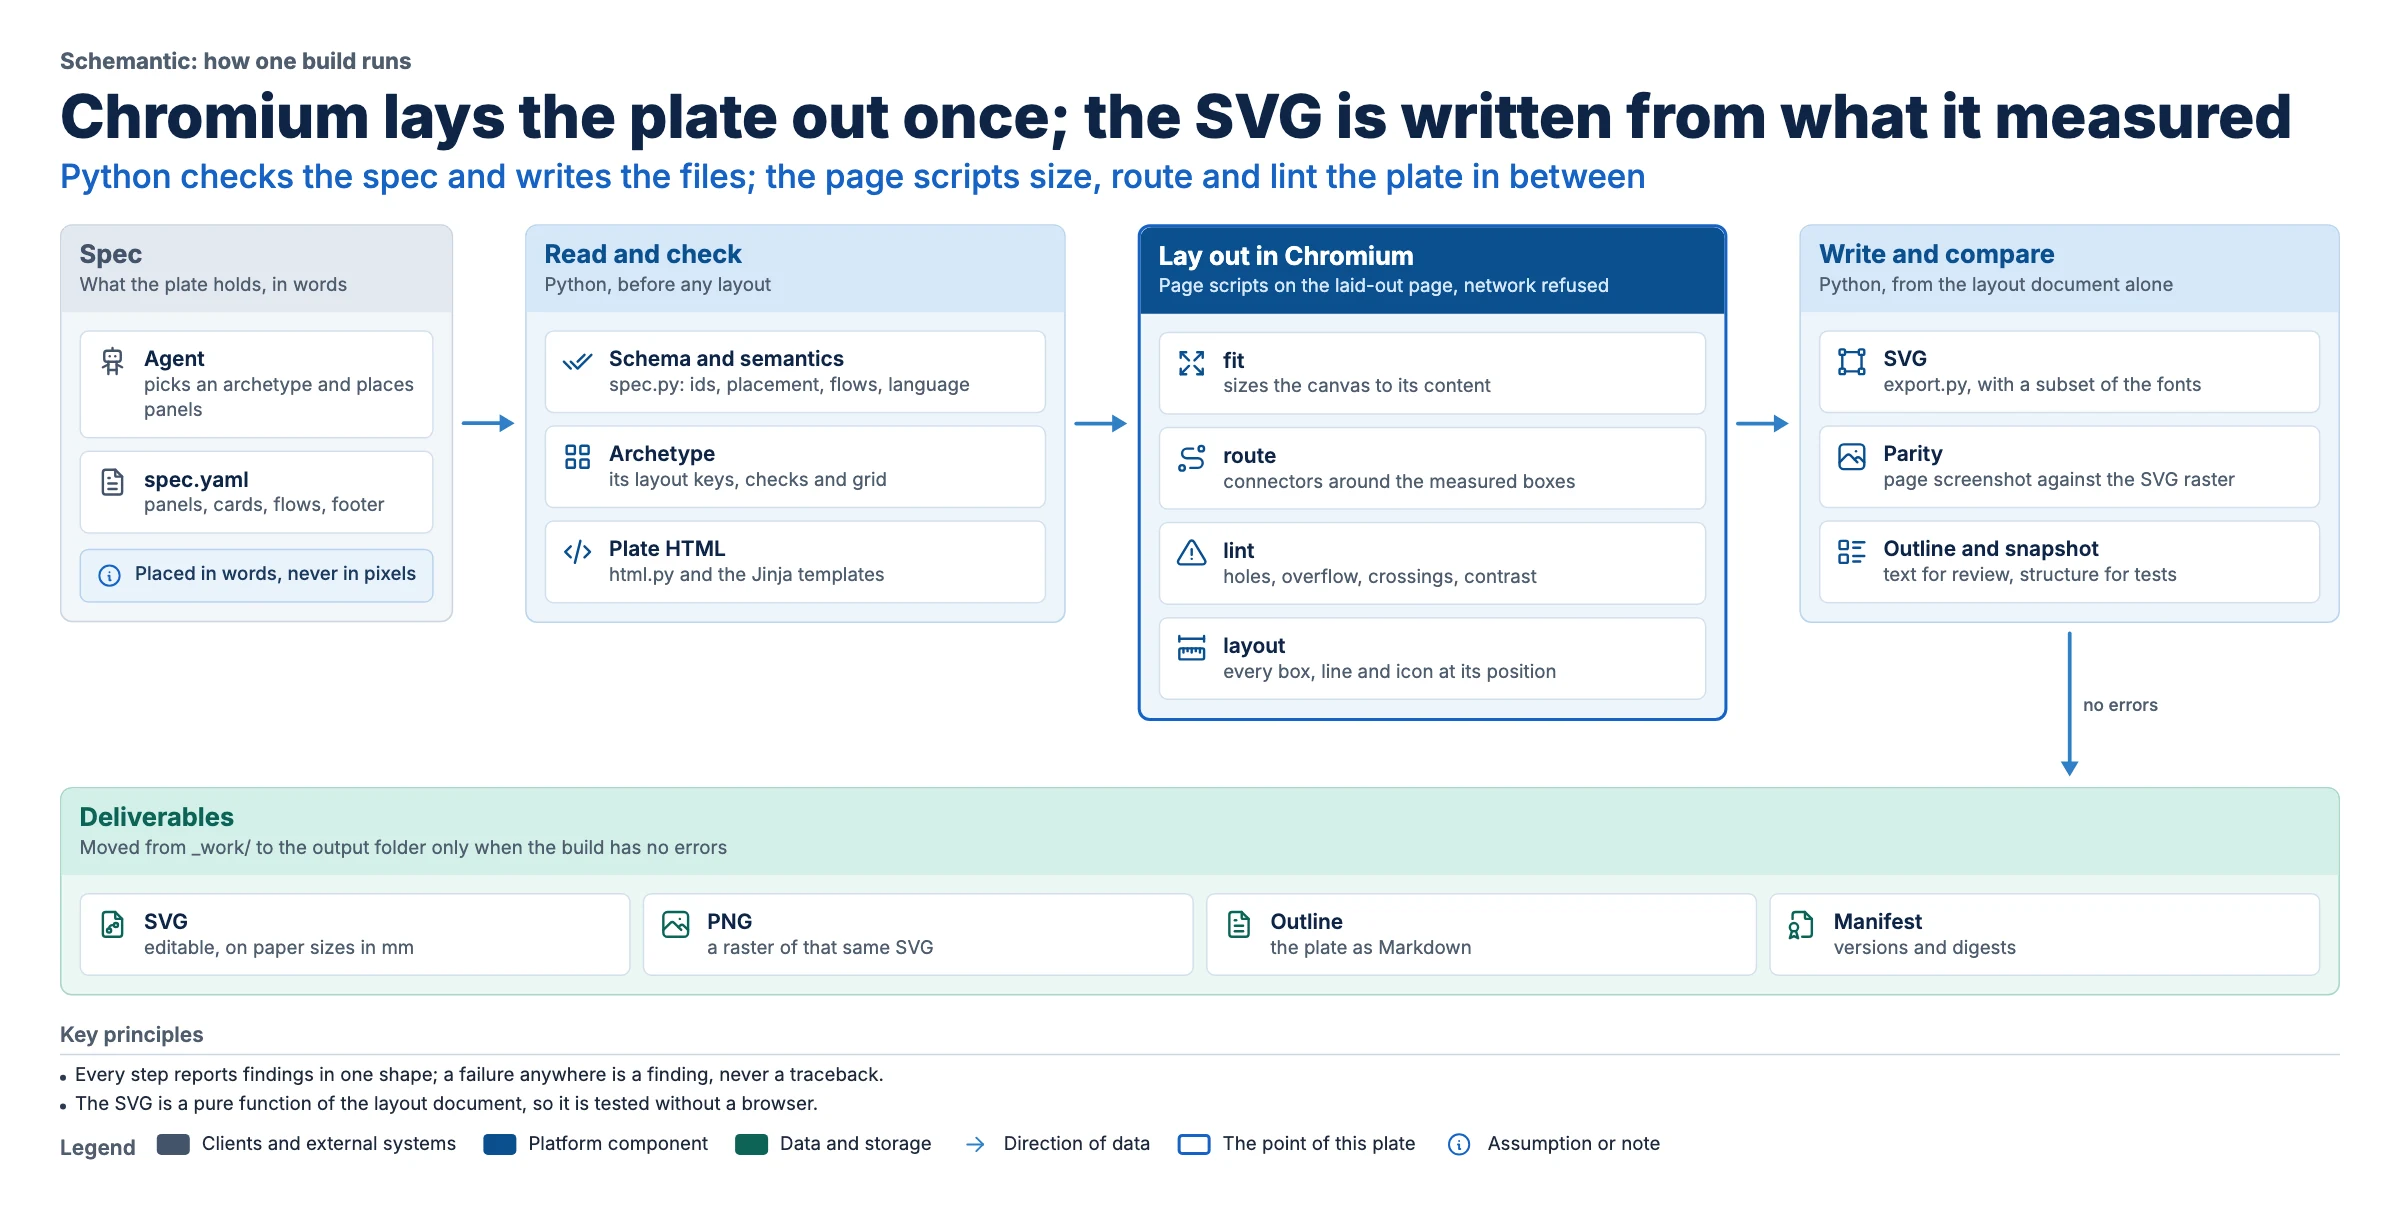
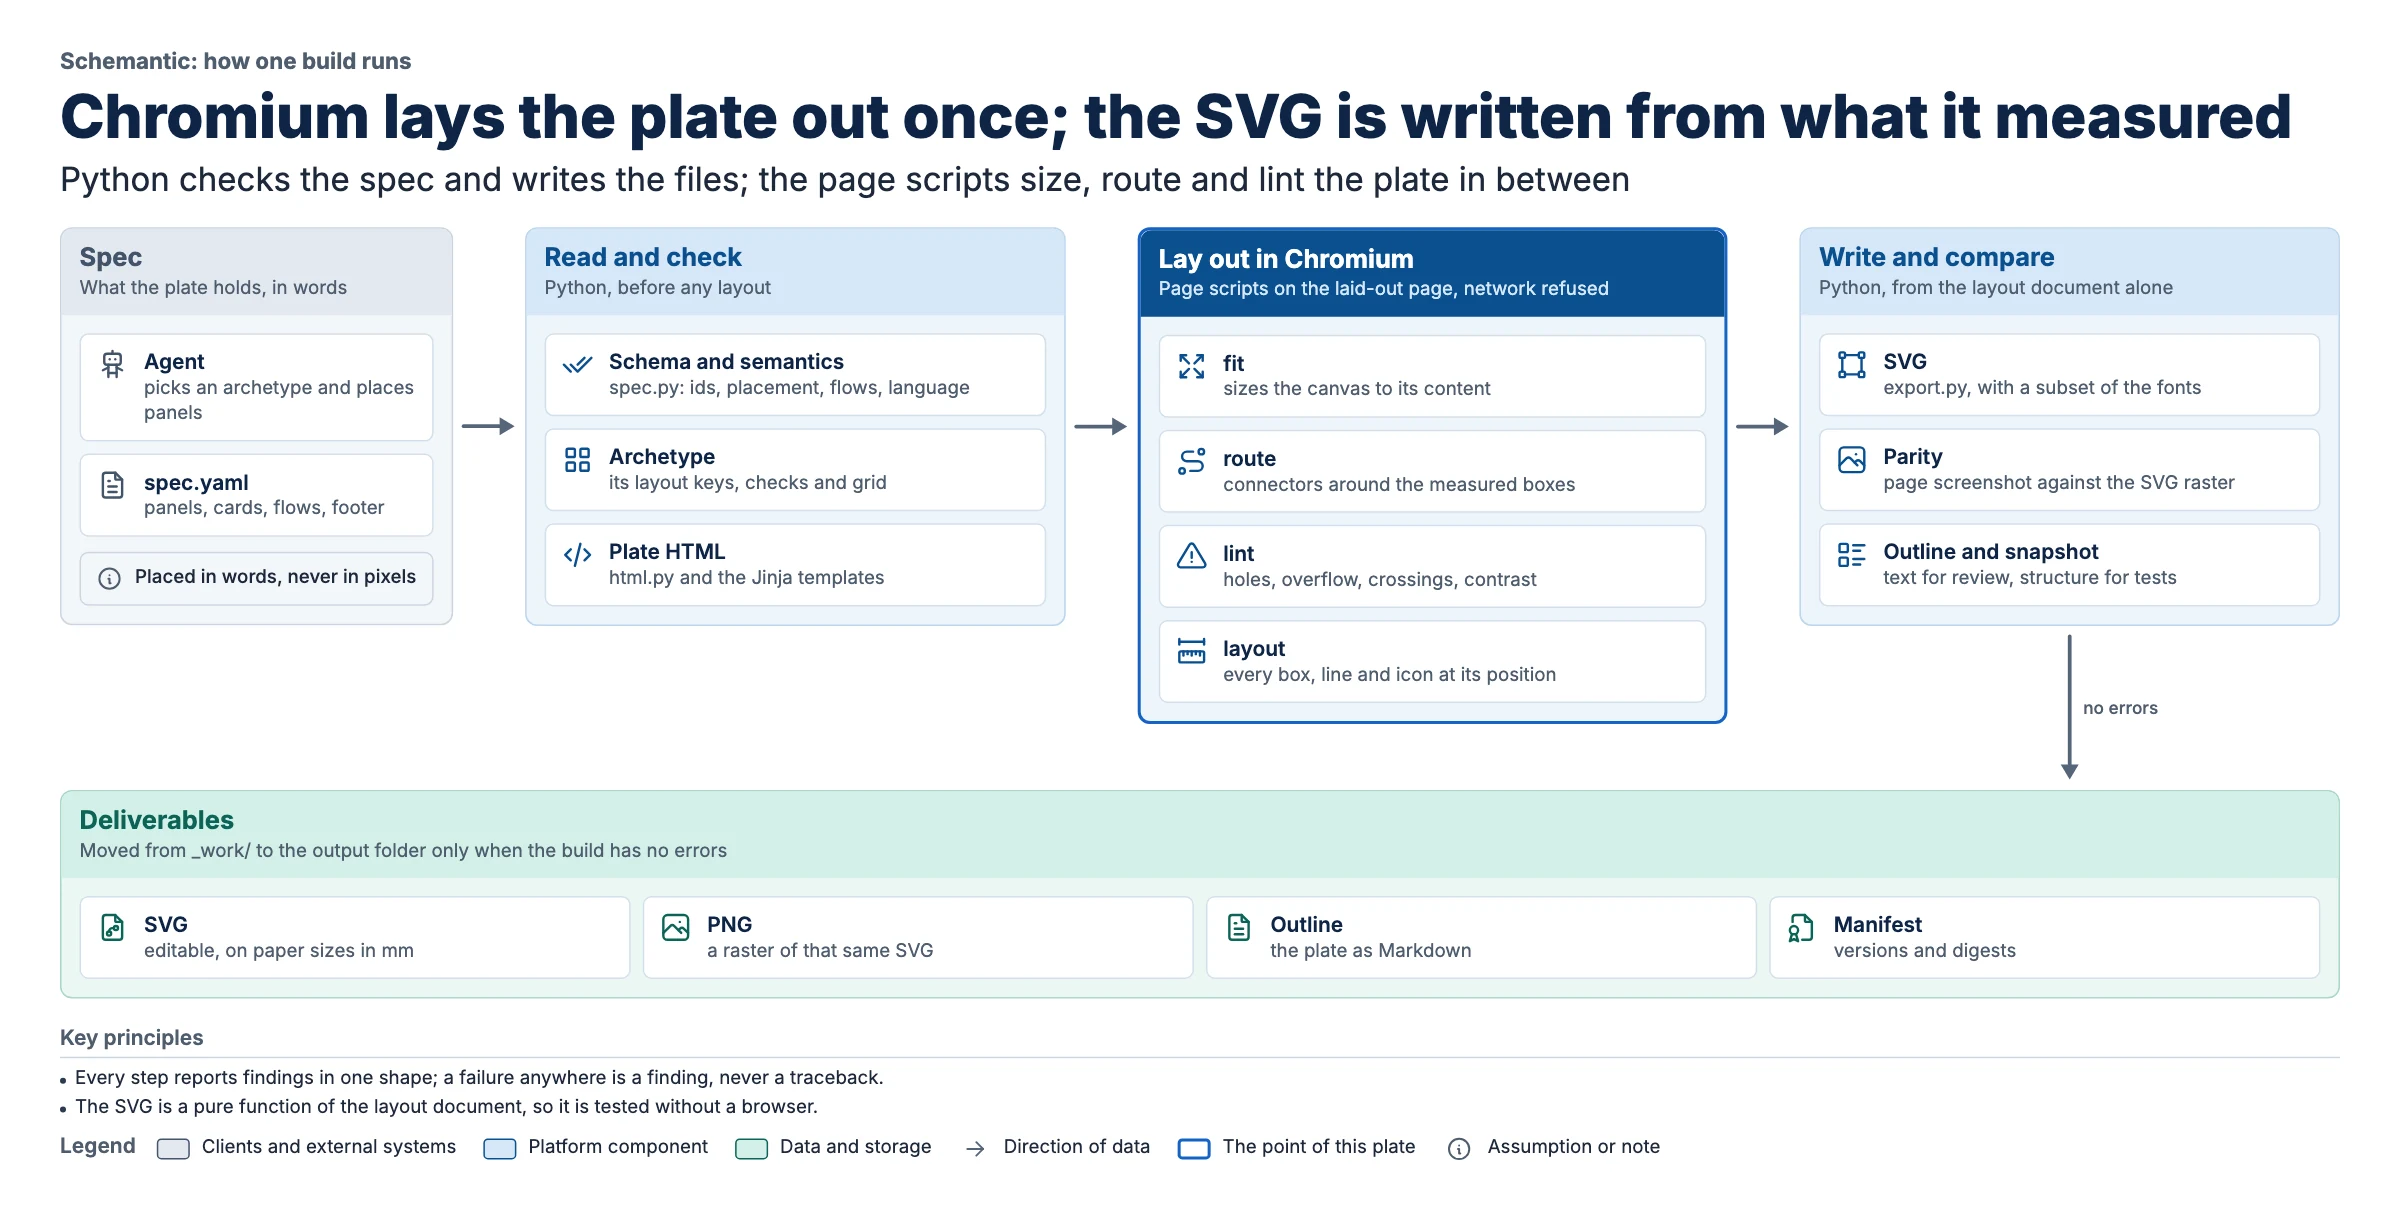
Rebuild the docs plates with the gallery
The architecture page's pipeline image was made by hand once and still showed filled headers and blue arrows.
`schemantic gallery` now rebuilds docs/plates/ into docs/img/ as well, and a test checks each docs plate has its image.

diff --git a/schemantic/gallery.py b/schemantic/gallery.py
@@ -1,5 +1,6 @@
 """`schemantic gallery`: build every example and write the README's images to assets/gallery/ as WebP at 1.5x,
-with a manifest of each example's structural snapshot, so a test can tell when the gallery is out of date."""
+with a manifest of each example's structural snapshot, so a test can tell when the gallery is out of date. The plates
+in docs/plates/ are rebuilt into docs/img/ the same way, so the docs never show an older look."""
 from __future__ import annotations
 
 import hashlib
@@ -12,6 +13,7 @@ from PIL import Image
 from .config import ROOT
 
 GALLERY = ROOT / "assets" / "gallery"
+DOCS_IMG = ROOT / "docs" / "img"
 SCALE = 1.5
 
 
@@ -22,15 +24,19 @@ def digest(snapshot: dict) -> str:
 def build_gallery() -> dict:
     from .pipeline import build
     GALLERY.mkdir(parents=True, exist_ok=True)
-    manifest = {}
+    manifest, docs = {}, []
+    sources = [(spec, GALLERY) for spec in sorted((ROOT / "examples").glob("*.yaml"))]
+    sources += [(spec, DOCS_IMG) for spec in sorted((ROOT / "docs" / "plates").glob("*.yaml"))]
     with tempfile.TemporaryDirectory() as tmp:
-        for spec in sorted((ROOT / "examples").glob("*.yaml")):
+        for spec, dest in sources:
             report = build(spec, tmp, scale=SCALE)
             if report["errors"]:
                 raise RuntimeError(f"{spec.name} does not lint clean: {report['errors'][:3]}")
             with Image.open(report["png"]) as im:
-                im.convert("RGB").save(GALLERY / f"{spec.stem}.webp", "WEBP", quality=88, method=6)
-            snap = json.loads(Path(report["snapshot"]).read_text(encoding="utf-8"))
-            manifest[spec.stem] = digest(snap)
+                im.convert("RGB").save(dest / f"{spec.stem}.webp", "WEBP", quality=88, method=6)
+            if dest is GALLERY:
+                manifest[spec.stem] = digest(json.loads(Path(report["snapshot"]).read_text(encoding="utf-8")))
+            else:
+                docs.append(spec.stem)
     (GALLERY / "manifest.json").write_text(json.dumps(manifest, indent=1) + "\n", encoding="utf-8")
-    return {"gallery": str(GALLERY), "images": sorted(manifest)}
+    return {"gallery": str(GALLERY), "images": sorted(manifest), "docs": docs}

diff --git a/tests/test_repo.py b/tests/test_repo.py
@@ -68,6 +68,8 @@ def test_gallery_is_current():
     for name in examples:
         snap = json.loads((ROOT / "tests" / "snapshots" / f"{name}.json").read_text(encoding="utf-8"))
         assert manifest[name] == digest(snap), f"{name}: run python -m schemantic gallery"
+    for plate in (ROOT / "docs" / "plates").glob("*.yaml"):  # rebuilt by the same command, shown in the docs
+        assert (ROOT / "docs" / "img" / f"{plate.stem}.webp").exists(), f"{plate.stem}: run python -m schemantic gallery"
 
 
 def test_docs_list_what_is_built():

diff --git a/CHANGELOG.md b/CHANGELOG.md
@@ -67,6 +67,8 @@ All notable changes to this project. The format follows [Keep a Changelog](https
 ### Changed
 - Arrows and step badges are slate ink instead of blue, so a blue arrow means the focus. Blue is left to the platform
   role and the focus; every plate's arrows change colour.
+- `schemantic gallery` also rebuilds the plates in `docs/plates/` into `docs/img/`; the architecture page's image had
+  kept the old filled headers.
 - A roadmap's `now` period is tinted down through every lane, not only marked in the band on top.
 - Before-after: a quiet grey chevron in the gutter between two facing panels reads "becomes", so the pairs read as
   what turned into what. It is not an arrow; arrows keep the meaning `flows_mean` gives them.
